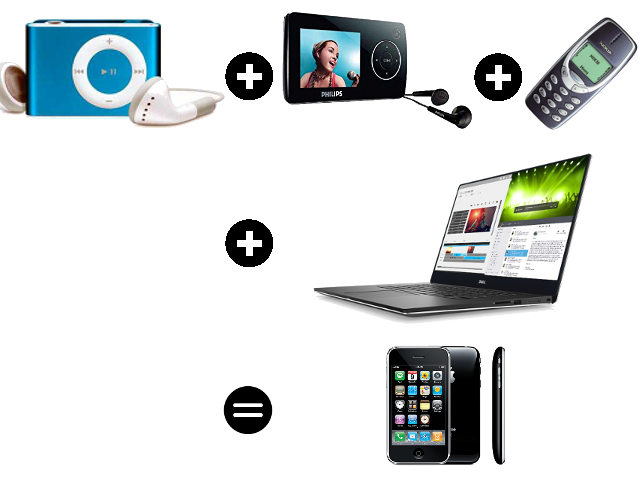
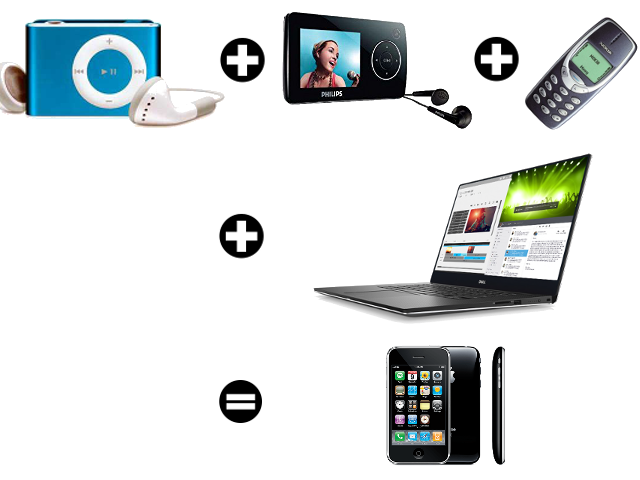
Adicionado estilo.css.

diff --git a/estilo.css b/estilo.css
@@ -1,0 +1,4 @@
+.reveal section img { 
+    background: rgba(255, 255, 255, 0); 
+    border:none; box-shadow:none; 
+}
